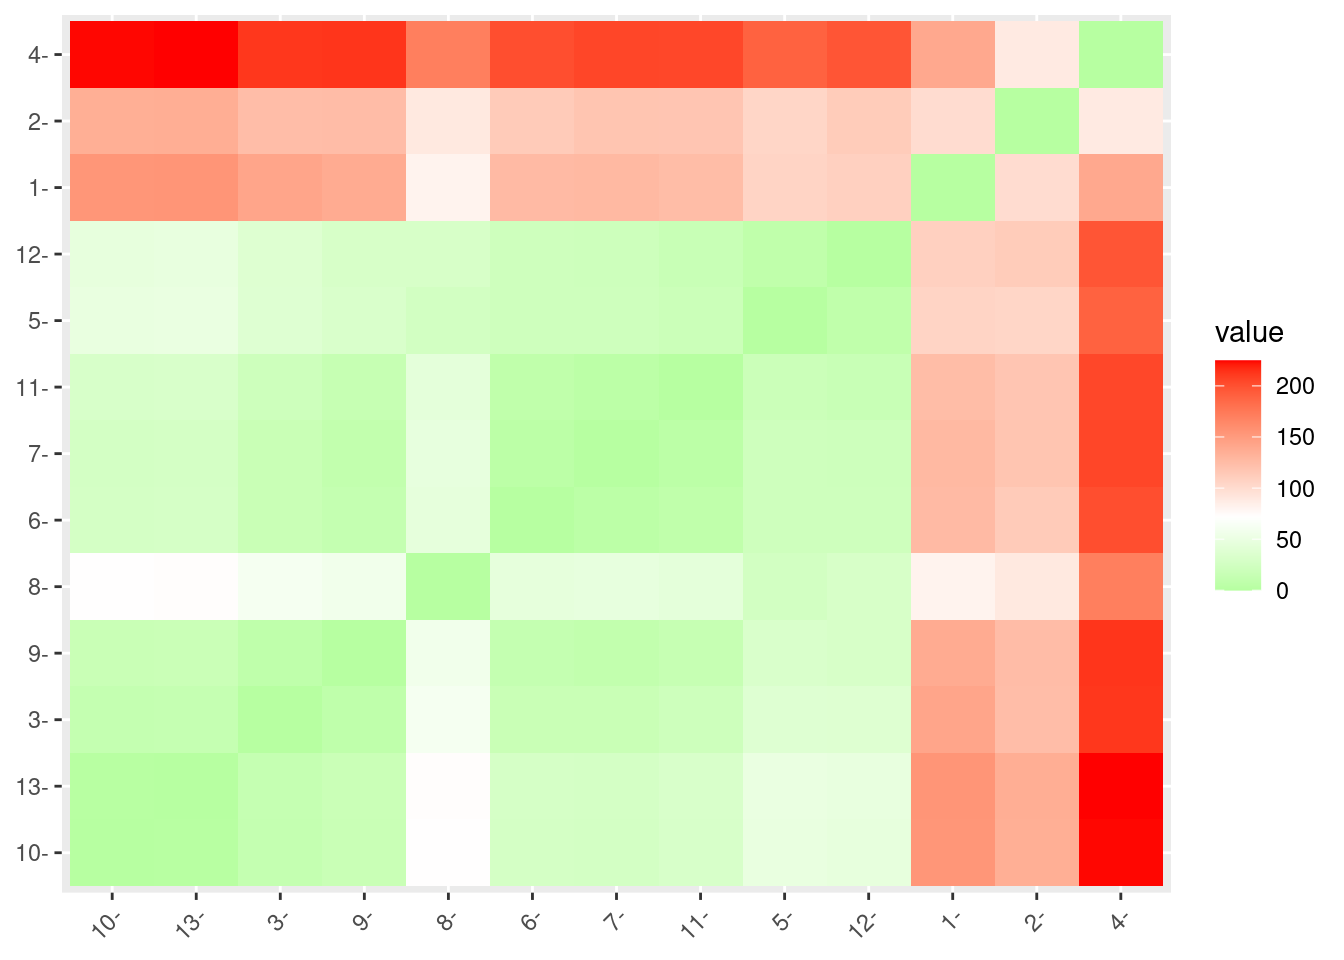
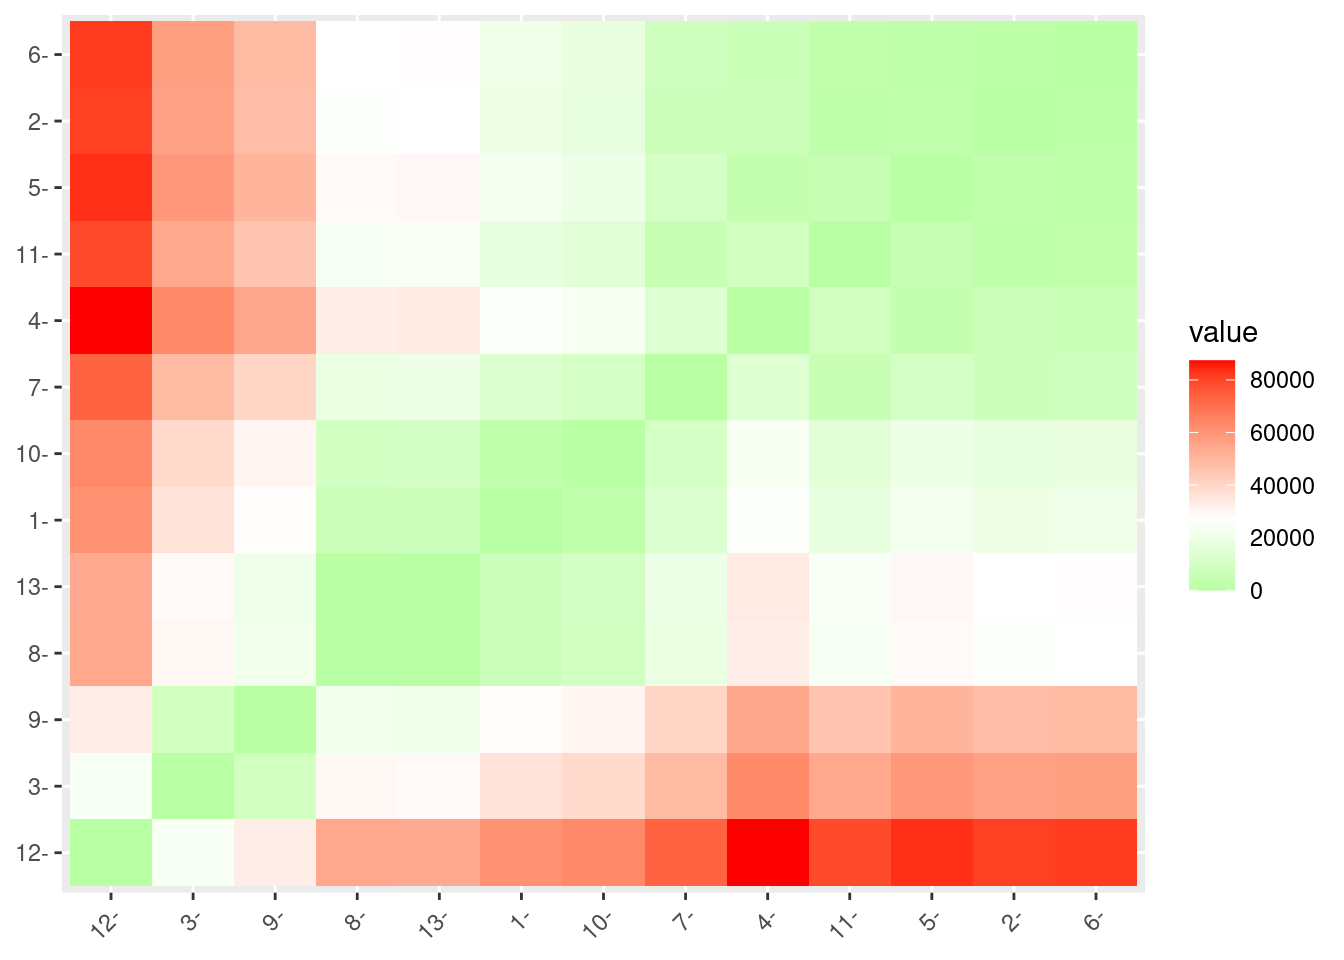
main

diff --git a/sites/index.html b/sites/index.html
@@ -22,8 +22,6 @@
 <script src="site_libs/navigation-1.1/tabsets.js"></script>
 <link href="site_libs/highlightjs-9.12.0/default.css" rel="stylesheet" />
 <script src="site_libs/highlightjs-9.12.0/highlight.js"></script>
-<link href="site_libs/anchor-sections-1.0/anchor-sections.css" rel="stylesheet" />
-<script src="site_libs/anchor-sections-1.0/anchor-sections.js"></script>
 
 <style type="text/css">
   code{white-space: pre-wrap;}
@@ -78,6 +76,7 @@ h6 {
   text-align: left;
 }
 </style>
+
 
 <link rel="stylesheet" href="style.css" type="text/css" />
 
@@ -308,131 +307,157 @@ $(document).ready(function () {
 <tr class="header">
 <th align="left">Kecamatan</th>
 <th align="right">Positif</th>
-<th align="right">Suspect</th>
+<th align="right">Jumlah_Penduduk</th>
 </tr>
 </thead>
 <tbody>
 <tr class="odd">
 <td align="left">Tlanakan</td>
 <td align="right">44</td>
-<td align="right">180</td>
+<td align="right">67482</td>
 </tr>
 <tr class="even">
 <td align="left">Pademawu</td>
 <td align="right">117</td>
-<td align="right">112</td>
+<td align="right">87486</td>
 </tr>
 <tr class="odd">
 <td align="left">Galis</td>
 <td align="right">16</td>
-<td align="right">40</td>
+<td align="right">31024</td>
 </tr>
 <tr class="even">
 <td align="left">Pamekasan</td>
 <td align="right">184</td>
-<td align="right">170</td>
+<td align="right">93896</td>
 </tr>
 <tr class="odd">
 <td align="left">Proppo</td>
 <td align="right">18</td>
-<td align="right">77</td>
+<td align="right">90101</td>
 </tr>
 <tr class="even">
 <td align="left">Palenggaan</td>
 <td align="right">18</td>
-<td align="right">56</td>
+<td align="right">88239</td>
 </tr>
 <tr class="odd">
 <td align="left">Pegantenan</td>
 <td align="right">13</td>
-<td align="right">56</td>
+<td align="right">80094</td>
 </tr>
 <tr class="even">
 <td align="left">Larangan</td>
 <td align="right">28</td>
-<td align="right">100</td>
+<td align="right">60953</td>
 </tr>
 <tr class="odd">
 <td align="left">Pakong</td>
 <td align="right">11</td>
-<td align="right">46</td>
+<td align="right">39347</td>
 </tr>
 <tr class="even">
 <td align="left">Waru</td>
 <td align="right">9</td>
-<td align="right">30</td>
+<td align="right">70050</td>
 </tr>
 <tr class="odd">
 <td align="left">Batu Marmar</td>
 <td align="right">11</td>
-<td align="right">60</td>
+<td align="right">85352</td>
 </tr>
 <tr class="even">
 <td align="left">Kadur</td>
 <td align="right">10</td>
-<td align="right">76</td>
+<td align="right">6523</td>
 </tr>
 <tr class="odd">
 <td align="left">Pasean</td>
 <td align="right">9</td>
-<td align="right">29</td>
+<td align="right">60310</td>
 </tr>
 </tbody>
 </table>
 <div id="statistik-data-covid-19-kabupaten-pamekasan" class="section level3">
 <h3>Statistik Data Covid-19 Kabupaten Pamekasan</h3>
-<pre><code>##     Positif          Suspect      
-##  Min.   :  9.00   Min.   : 29.00  
-##  1st Qu.: 11.00   1st Qu.: 46.00  
-##  Median : 16.00   Median : 60.00  
-##  Mean   : 37.54   Mean   : 79.38  
-##  3rd Qu.: 28.00   3rd Qu.:100.00  
-##  Max.   :184.00   Max.   :180.00</code></pre>
+<pre><code>##     Positif       Jumlah_Penduduk
+##  Min.   :  9.00   Min.   : 6523  
+##  1st Qu.: 11.00   1st Qu.:60310  
+##  Median : 16.00   Median :70050  
+##  Mean   : 37.54   Mean   :66220  
+##  3rd Qu.: 28.00   3rd Qu.:87486  
+##  Max.   :184.00   Max.   :93896</code></pre>
 </div>
 <div id="jarak-masing-masing-data" class="section level3">
 <h3>Jarak Masing-masing Data</h3>
+<pre><code>##             1          2          3          4          5          6          7
+## 2  20004.1332                                                                  
+## 3  36458.0108 56462.0903                                                       
+## 4  26414.3710  6410.3501 62872.2245                                            
+## 5  22619.0149  2616.8733 59077.0000  3798.6288                                 
+## 6  20757.0163   759.4801 57215.0000  5659.4350  1862.0000                      
+## 7  12612.0381  7392.7316 49070.0001 13803.0593 10007.0012  8145.0015           
+## 8   6529.0196 26533.1493 29929.0024 32943.3694 29148.0017 27286.0018 19141.0059
+## 9  28135.0194 48139.1167  8323.0015 54549.2743 50754.0005 48892.0005 40747.0000
+## 10  2568.2385 17436.3345 39026.0006 23846.6421 20051.0020 18189.0022 10044.0008
+## 11 17870.0305  2136.6310 54328.0002  8545.7513  4749.0052  2887.0085  5258.0004
+## 12 60959.0095 80963.0707 24501.0007 87373.1733 83578.0004 81716.0004 73571.0001
+## 13  7172.0854 27176.2146 29286.0008 33586.4559 29791.0014 27929.0015 19784.0004
+##             8          9         10         11         12
+## 2                                                        
+## 3                                                        
+## 4                                                        
+## 5                                                        
+## 6                                                        
+## 7                                                        
+## 8                                                        
+## 9  21606.0067                                            
+## 10  9097.0198 30703.0001                                 
+## 11 24399.0059 46005.0000 15302.0001                      
+## 12 54430.0030 32824.0000 63527.0000 78829.0000           
+## 13   643.2807 20963.0001  9740.0000 25042.0001 53787.0000</code></pre>
 <p><img src="index_files/figure-html/unnamed-chunk-4-1.png" width="672" /></p>
 </div>
 <div id="klastering-data-covid-19-kab.-pamekasan" class="section level3">
 <h3>Klastering Data Covid-19 Kab. Pamekasan</h3>
-<pre><code>## K-means clustering with 3 clusters of sizes 1, 2, 10
+<pre><code>## K-means clustering with 3 clusters of sizes 3, 4, 6
 ## 
 ## Cluster means:
-##   Positif Suspect
-## 1    44.0     180
-## 2   150.5     141
-## 3    14.3      57
+##    Positif Jumlah_Penduduk
+## 1 12.33333        25631.33
+## 2 22.50000        64698.75
+## 3 60.16667        87528.00
 ## 
 ## Clustering vector:
-##  [1] 1 2 3 2 3 3 3 3 3 3 3 3 3
+##  [1] 2 3 1 3 3 3 3 2 1 2 3 1 2
 ## 
 ## Within cluster sum of squares by cluster:
-## [1]    0.0 3926.5 4860.1
-##  (between_SS / total_SS =  85.9 %)
+## [1] 582328789  69674984 107705133
+##  (between_SS / total_SS =  91.0 %)
 ## 
 ## Available components:
 ## 
 ## [1] &quot;cluster&quot;      &quot;centers&quot;      &quot;totss&quot;        &quot;withinss&quot;     &quot;tot.withinss&quot;
 ## [6] &quot;betweenss&quot;    &quot;size&quot;         &quot;iter&quot;         &quot;ifault&quot;</code></pre>
 <pre><code>##    klaster.cluster
-## 1                1
-## 2                2
-## 3                3
-## 4                2
+## 1                2
+## 2                3
+## 3                1
+## 4                3
 ## 5                3
 ## 6                3
 ## 7                3
-## 8                3
-## 9                3
-## 10               3
+## 8                2
+## 9                1
+## 10               2
 ## 11               3
-## 12               3
-## 13               3</code></pre>
+## 12               1
+## 13               2</code></pre>
 <p><img src="index_files/figure-html/unnamed-chunk-6-1.png" width="672" /></p>
 </div>
 <div id="visualisasi-data-covid-19" class="section level3">
 <h3>Visualisasi Data Covid-19</h3>
-<p><img src="data/peta.png" /></p>
+<p><img src="data/peta-covid19.png" /></p>
 </div>
 
 <p>Copyright &copy; 2020 MohSaleh, Inc. All rights reserved.</p>
